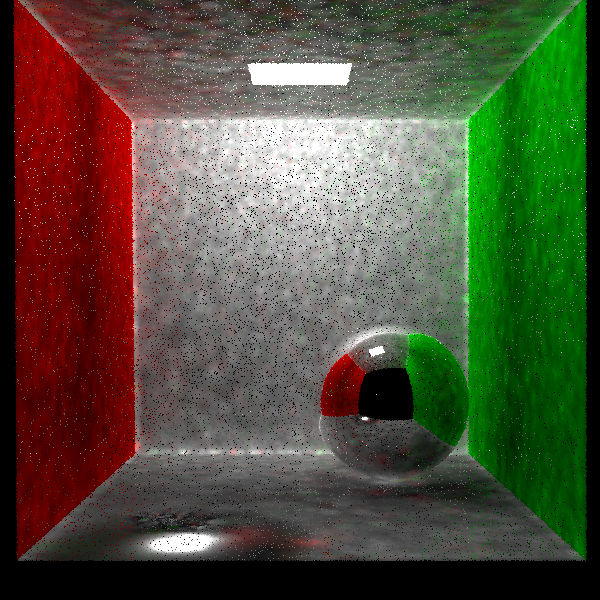
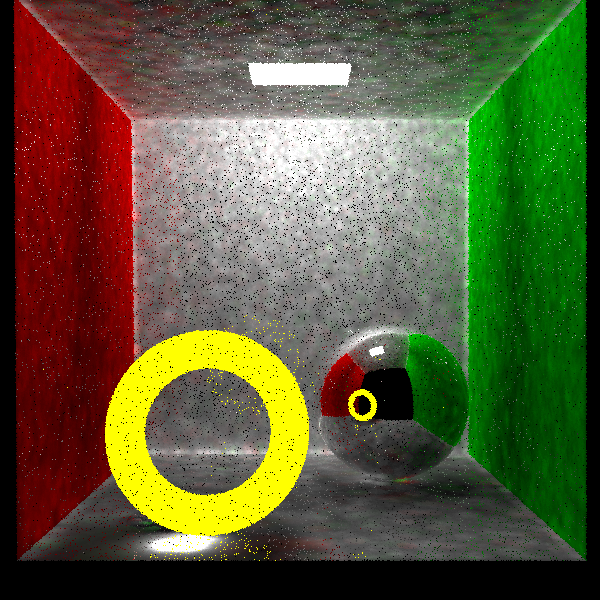
Total internal reflections

diff --git a/src/ray/renderer/PhotonMapRenderer.java b/src/ray/renderer/PhotonMapRenderer.java
@@ -220,9 +220,6 @@ public class PhotonMapRenderer implements Renderer {
 					
 				}
 					//Transmission
-					//
-					//
-					/// Sid play with this
 				else if(russianRouletteRV<(pSpec+pDiff+pTrans)){
 
 					
@@ -235,9 +232,6 @@ public class PhotonMapRenderer implements Renderer {
 					//Query the refractive index in which the photon is propagating.
 					Color prevRefIdx = photon.getRefIdx();
 					Photon transPhoton = new Photon( outPower );
-
-					//Sid part -- debug
-
 
 					//reference: http://www.starkeffects.com/snells-law-vector.shtml
 					
@@ -294,7 +288,7 @@ public class PhotonMapRenderer implements Renderer {
 						transmitDir.sub(operand2);
 						
 					}
-					//Sid part ends
+					//part ends
 					/*
 					//Reorient the direction to have its base aligned to the tangent plane of the surface
 					Vector3 normal = new Vector3(iRec.frame.w);
@@ -318,7 +312,7 @@ public class PhotonMapRenderer implements Renderer {
 					}
 					*/
 					//Cast another ray in a random direction in the hemisphere above the surface.
-					//Ray transRay = new Ray(sri_point, transDir); //Sid comment : May 13
+					//Ray transRay = new Ray(sri_point, transDir); //Chandra comment : May 13
 					Ray transRay = new Ray(sri_point, transmitDir);
 					transRay.makeOffsetRay();
 					
@@ -447,7 +441,6 @@ public class PhotonMapRenderer implements Renderer {
 					//Query the refractive index in which the ray is propagating.
 					Color prevRefIdx = ray.getRefIdx();
 
-					//Sid part -- debug
 
 
 					//reference: http://www.starkeffects.com/snells-law-vector.shtml
@@ -490,6 +483,7 @@ public class PhotonMapRenderer implements Renderer {
 						double sinTheta1 = operand1.length();
 						if(sinTheta1 > 1/eta_1__eta2 ){
 							//Perform a total internal reflection
+							//Sid debug this.
 
 							//Create a ray in a in  the direction of specular reflection
 							Vector3 reffDir = new Vector3(ray.direction);
@@ -506,8 +500,11 @@ public class PhotonMapRenderer implements Renderer {
 							iRec.frame.frameToCanonical(reffDir);
 							transmitDir.set(reffDir);
 							transRay.setRefIdx(refraciveIndex);
-							//outColor.set(1.0,1.0,0.0);
-							//return;
+							ray.direction.scale(-1);
+							transmitDir.set( ray.direction );
+							outColor.set(1.0,1.0,0.0);		//Regions which reflect internally are shaded yellow for debug.
+							return;
+							//Sid end debug
 						}
 						else{
 
@@ -536,6 +533,7 @@ public class PhotonMapRenderer implements Renderer {
 					ray.direction.set(transmitDir);
 					//Cast the ray
 					rayRadiance(scene, transRay, sampler, sampleIndex, outColor);
+					outColor.set(1.0,1.0,0.0);
 					return;
 				}
 					//AbsorptionrayRadiance
